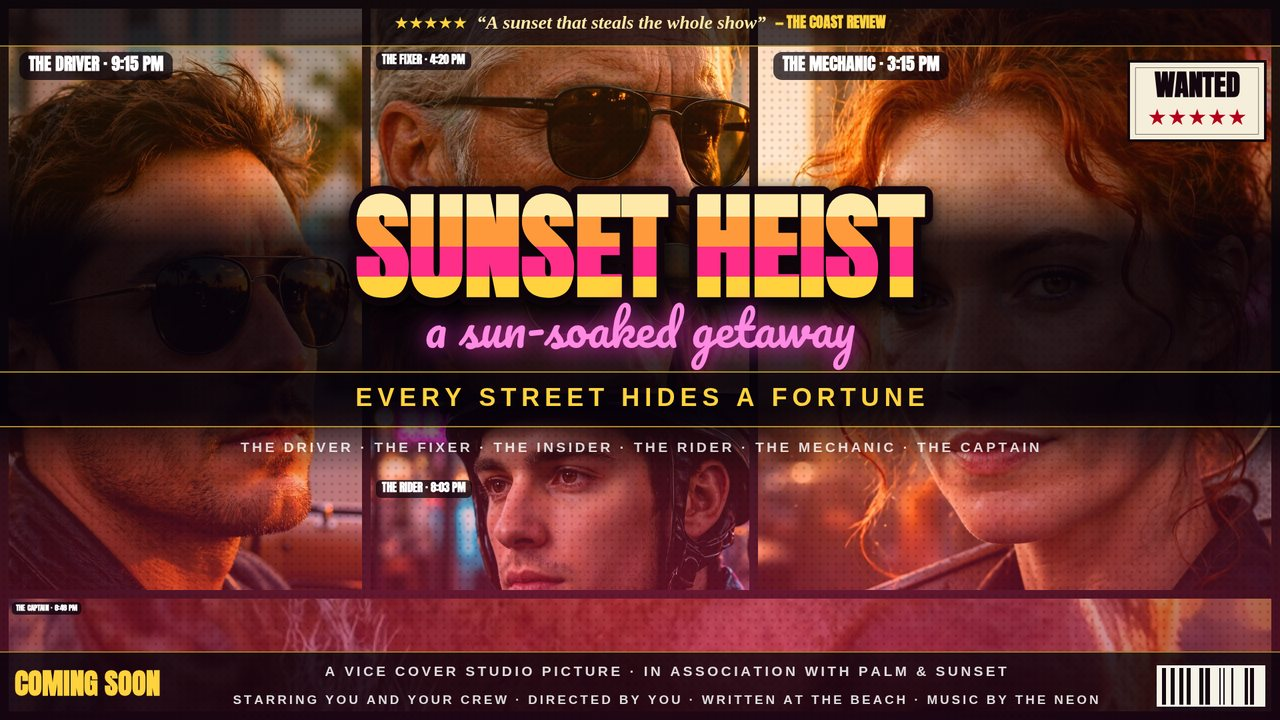
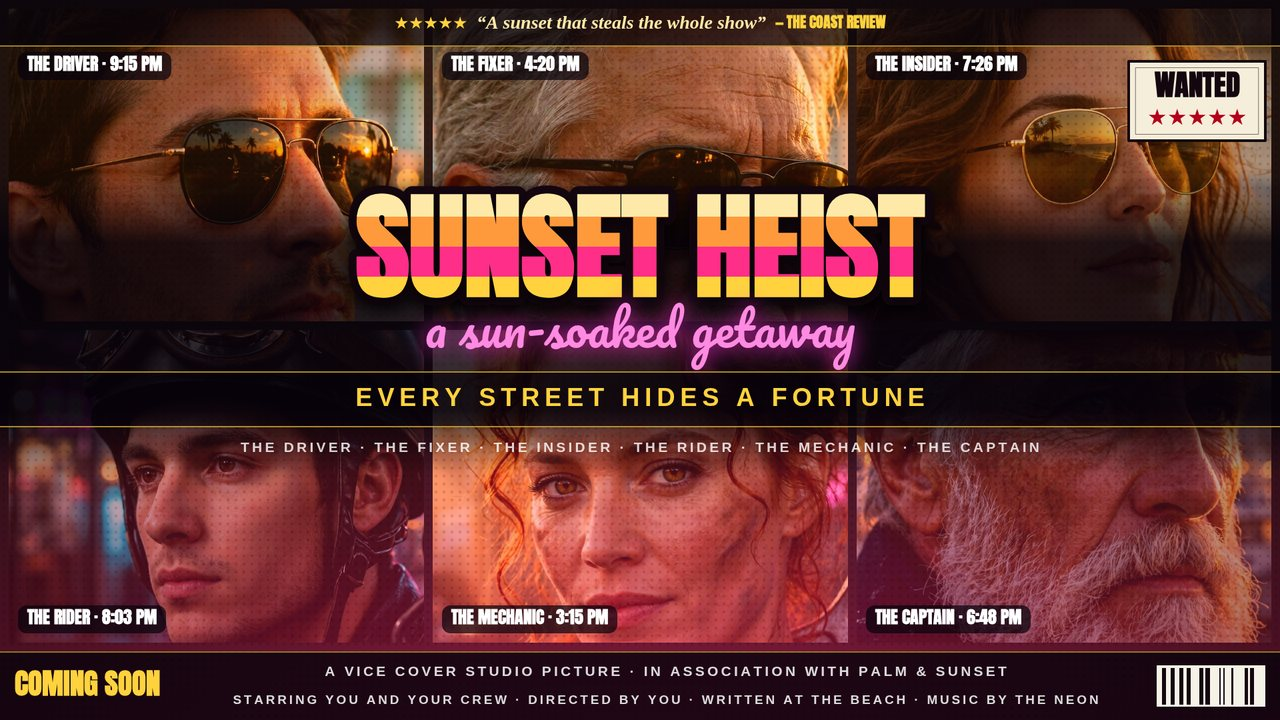
Round 5 fix: key art is six full panels, three over three, above the footer
- keyart was two tall panels + a stacked column + a 16%-high bottom
  strip: the strip showed only the top of the captain's white hair once
  the 9.5% footer covered its foot (face-aware centring put his face
  5px below the visible cut), and the middle panel of the stacked
  column sat entirely behind the centre title — the insider's face and
  label both invisible.
- keyart is now a 3x2 grid of six equal panels, all ending above the
  production footer: layoutPanels takes a reserveBottom (the footer
  height) in renderCover and in the editor hit-test, so no photo in any
  layout is ever hidden behind the footer band.
- Panel labels now search candidate spots (top-left, below an obstacle,
  slid sideways, below the title, bottom-left, bottom-right), reject any
  spot in the panel's middle band where it would cover the centred face,
  and shrink the type (never below 11px) until a spot fits — the square
  neon cover's rider label now sits small beside the EST seal instead
  of vanishing between the quote strip, the badge and the title.
- All six cast faces and all six role labels are visible on the wide
  hero cover and the square cover; poster and editor shots re-verified.
- Title, tagline bar, billing, quote strip, badges, film credits,
  COMING SOON and barcode unchanged.

diff --git a/app/src/cover.js b/app/src/cover.js
@@ -11,7 +11,7 @@ export const SIZES = {
 export const LAYOUTS = {
   showcase: { panels: 5, label: 'Showcase — hero left, four small, title over photos' },
   poster: { panels: 4, label: 'Poster — big top, three below, title over photos' },
-  keyart: { panels: 6, label: 'Key art — two heroes, three stacked, bottom strip' },
+  keyart: { panels: 6, label: 'Key art — six portraits, three over three, title over the middle' },
   hero: { panels: 1, label: 'Hero — one full photo' },
   duo: { panels: 2, label: 'Duo — two tall panels' },
   trio: { panels: 3, label: 'Trio — one big, two stacked' },
@@ -54,13 +54,15 @@ export const FACE_ANCHORS = {
 };
 
 // Panel rectangles for a layout, in fractions of the canvas, with a gutter
-// between them. Panels are numbered in reading order. The photos cover the
-// FULL height of the canvas: the title block overlaps the foot of the photos
-// on a dark scrim (the look the top covers use), it is never confined to a
-// separate strip.
-export function layoutPanels(layout, W, H) {
+// between them. Panels are numbered in reading order. The panels live in
+// the area ABOVE the production footer: `reserveBottom` is the footer's
+// height (0 when it is hidden), so no photo is ever hidden behind the
+// footer band. The title block overlaps the foot of the photos on a dark
+// scrim (the look the top covers use), it is never confined to a separate
+// strip.
+export function layoutPanels(layout, W, H, reserveBottom = 0) {
   const g = Math.max(6, Math.round(Math.min(W, H) * 0.012));
-  const x0 = g, y0 = g, x1 = W - g, y1 = H - g;
+  const x0 = g, y0 = g, x1 = W - g, y1 = H - reserveBottom - g;
   const w = x1 - x0, h = y1 - y0;
   const midX = x0 + Math.round(w * 0.56);
   const midY = y0 + Math.round(h * 0.62);
@@ -80,21 +82,27 @@ export function layoutPanels(layout, W, H) {
       ];
     }
     case 'keyart': {
-      const leftW = Math.round(w * 0.28);
-      const midW = Math.round(w * 0.3);
-      const stripH = Math.round(h * 0.16);
-      const topH = h - stripH - g;
-      const third = Math.round((topH - 2 * g) / 3);
-      const midX2 = x0 + leftW + g;
-      const rightX = midX2 + midW + g;
-      return [
-        { x: x0, y: y0, w: leftW, h: topH },
-        { x: midX2, y: y0, w: midW, h: third },
-        { x: midX2, y: y0 + third + g, w: midW, h: third },
-        { x: midX2, y: y0 + 2 * (third + g), w: midW, h: topH - 2 * (third + g) },
-        { x: rightX, y: y0, w: x1 - rightX, h: topH },
-        { x: x0, y: y0 + topH + g, w, h: stripH },
-      ];
+      // Six portraits, three over three: every cast member gets a full
+      // panel with its face visible, and every panel ends above the
+      // production footer. The old layout's bottom strip showed only the
+      // top of the sixth portrait's head once the footer covered its foot,
+      // and the middle panel of the stacked column sat entirely behind
+      // the centre title — its face and its label both invisible.
+      const cw = Math.round((w - 2 * g) / 3);
+      const rh = Math.round((h - g) / 2);
+      const rects = [];
+      for (let i = 0; i < 6; i++) {
+        const col = i % 3, row = Math.floor(i / 3);
+        const x = x0 + col * (cw + g);
+        const y = y0 + row * (rh + g);
+        rects.push({
+          x,
+          y,
+          w: col === 2 ? x1 - x : cw,
+          h: row === 1 ? y1 - y : rh,
+        });
+      }
+      return rects;
     }
     case 'duo':
       return [
@@ -778,12 +786,19 @@ export function drawFooter(ctx, W, H, state) {
   ctx.restore();
 }
 
-// A small dark pill with white caps text in the top-left corner of a panel
-// with a photo. Top-left on purpose: the giant title block covers the foot
-// of the photos, so a bottom label would collide with it. Collisions are
-// handled by pushing the pill down when it fits in the panel, sliding it
-// sideways away from a corner obstacle when it does not, and skipping it
-// only when neither works — a half-hidden label is worse than none.
+// A small dark pill with white caps text for a panel with a photo.
+// Top-left by default: the giant title block covers the foot of the
+// photos, so a bottom label would collide with it. When the top-left spot
+// is blocked, the pill tries, in order: below a corner obstacle (quote
+// strip, badge), slid sideways clear of it, below the title block, the
+// panel's bottom-left, the panel's bottom-right — every x combined with
+// every y, so a label squeezed between the quote strip and a corner badge
+// still finds the gap beside the badge and under the strip. A spot in the
+// panel's middle band (30–70% of its height) sits on the centred face, so
+// only top and foot spots are usable there. If no spot fits at the usual
+// size, the type shrinks (never below 11px) until one does: a small label
+// beats a missing one. A half-hidden label is worse than none, so nothing
+// is drawn when no spot fits at any size.
 function drawPanelLabels(ctx, rects, panels, opts) {
   const obstacles = [opts?.quoteZone, opts?.badgeRect].filter(Boolean);
   const title = opts?.titleZone || null;
@@ -793,38 +808,47 @@ function drawPanelLabels(ctx, rects, panels, opts) {
     if (!panel.photo) return;
     const label = (panel.caption || '').trim();
     if (!label) return;
-    const fs = Math.max(11, Math.min(26, Math.round(Math.min(rect.w, rect.h) * 0.06)));
+    const baseFs = Math.max(11, Math.min(26, Math.round(Math.min(rect.w, rect.h) * 0.06)));
+    const inset = Math.round(Math.min(rect.w, rect.h) * 0.03);
+    for (let fs = baseFs; fs >= 11; fs--) {
     ctx.save();
     ctx.font = `900 ${fs}px Anton, sans-serif`;
     const tw = ctx.measureText(label.toUpperCase()).width;
     const px = Math.round(fs * 0.55), py = Math.round(fs * 0.32);
-    const inset = Math.round(Math.min(rect.w, rect.h) * 0.03);
-    let x = rect.x + inset;
-    let y = rect.y + inset;
     const w = tw + px * 2, h = fs + py * 2;
-    const box = () => ({ x0: x, y0: y, x1: x + w, y1: y + h });
-    const fitsBelow = (zone) => zone.y1 + 8 + h <= rect.y + rect.h - 4;
-    // Clear of the title block's scrim zone: push below it when it fits
-    // (this is what lets bottom-row labels survive a centre title), skip
-    // when it does not (e.g. the key-art bottom strip under a bottom title).
-    if (title && overlaps(box(), title)) {
-      if (fitsBelow(title)) y = title.y1 + 8;
-      else { ctx.restore(); return; }
-    }
-    // Clear of each obstacle (quote strip, badge): push below when it fits,
-    // otherwise slide sideways away from it.
+    const inside = (b) => b.x0 >= rect.x + 4 && b.y0 >= rect.y + 4 && b.x1 <= rect.x + rect.w - 4 && b.y1 <= rect.y + rect.h - 4;
+    const clear = (b) => !(title && overlaps(b, title)) && !obstacles.some((ob) => overlaps(b, ob));
+    const box = (x, y) => ({ x0: x, y0: y, x1: x + w, y1: y + h });
+    // A spot in the panel's middle band (30–70% of its height) sits on
+    // the centred face; spots there are only usable at the panel's top
+    // or foot, never in the middle.
+    const clearOfFace = (b) => {
+      const mid = b.y0 + h / 2;
+      return mid < rect.y + rect.h * 0.3 || mid > rect.y + rect.h * 0.7;
+    };
+    const tx = rect.x + inset, ty = rect.y + inset;
+    // Candidate spots: the top-left corner, slid sideways clear of a
+    // corner obstacle, and below each obstacle and below the title block
+    // — every x combined with every y, so a label squeezed between the
+    // quote strip and a corner badge still finds the gap beside the badge
+    // and under the strip. Then the panel's bottom-left and bottom-right.
+    // A spot in the panel's middle band (30–70% of its height) sits on
+    // the centred face, so only top and foot spots are usable there.
+    const xs = [tx];
+    const ys = [ty];
     for (const ob of obstacles) {
-      if (!overlaps(box(), ob)) continue;
-      if (fitsBelow(ob)) y = ob.y1 + 8;
-      else if (ob.x0 <= 0) x = ob.x1 + 8;
-      else x = ob.x0 - 8 - w;
+      ys.push(ob.y1 + 8);
+      if (ob.x0 <= 0) xs.push(ob.x1 + 8);
+      else xs.push(ob.x0 - 8 - w);
     }
-    // A slide may have pushed the pill back into the title zone; skip if
-    // it is still colliding.
-    if (title && overlaps(box(), title)) {
-      ctx.restore();
-      return;
-    }
+    if (title) ys.push(title.y1 + 8);
+    const candidates = [];
+    for (const y of ys) for (const x of xs) candidates.push(box(x, y));
+    candidates.push(box(tx, rect.y + rect.h - h - inset));
+    candidates.push(box(rect.x + rect.w - w - inset, rect.y + rect.h - h - inset));
+    const spot = candidates.find((b) => inside(b) && clear(b) && clearOfFace(b));
+    if (!spot) { ctx.restore(); continue; }
+    const x = spot.x0, y = spot.y0;
     ctx.fillStyle = 'rgba(8,3,12,0.72)';
     ctx.beginPath();
     ctx.roundRect(x, y, w, h, Math.round(h * 0.3));
@@ -834,6 +858,8 @@ function drawPanelLabels(ctx, rects, panels, opts) {
     ctx.textBaseline = 'middle';
     ctx.fillText(label.toUpperCase(), x + px, y + h / 2);
     ctx.restore();
+    return;
+    }
   });
 }
 
@@ -875,7 +901,10 @@ export function renderCover(canvas, state) {
   const W = size.w, H = size.h;
   ctx.fillStyle = '#0d0b12';
   ctx.fillRect(0, 0, W, H);
-  const rects = layoutPanels(state.layout, W, H);
+  // Panels end above the production footer, so no photo is ever hidden
+  // behind the footer band (the old key-art strip lost its whole face
+  // to it). The footer is drawn over the reserved band below.
+  const rects = layoutPanels(state.layout, W, H, footerHeight(H, state));
   const noir = state.grade === 'noir';
   const panels = (state.panels || []).map((p) => p || {});
   rects.forEach((rect, i) => {

diff --git a/app/src/main.js b/app/src/main.js
@@ -3,7 +3,7 @@
 // controls, and PNG export in the three post sizes. A `?shot=` query sets up
 // a fixed scene for a screenshot instead (./shots.js).
 
-import { SIZES, LAYOUTS, GRADES, BADGE_STYLES, FACE_ANCHORS, layoutPanels, renderCover, defaultPanelLabel } from './cover.js';
+import { SIZES, LAYOUTS, GRADES, BADGE_STYLES, FACE_ANCHORS, footerHeight, layoutPanels, renderCover, defaultPanelLabel } from './cover.js';
 import { runShot } from './shots.js';
 
 const canvas = document.getElementById('cover');
@@ -297,7 +297,8 @@ function canvasPoint(e) {
 }
 
 function panelAt(x, y) {
-  const rects = layoutPanels(state.layout, canvas.width, canvas.height);
+  // Same geometry as the render: panels end above the footer band.
+  const rects = layoutPanels(state.layout, canvas.width, canvas.height, footerHeight(canvas.height, state));
   for (let i = 0; i < rects.length; i++) {
     const r = rects[i];
     if (x >= r.x && x <= r.x + r.w && y >= r.y && y <= r.y + r.h) return i;
